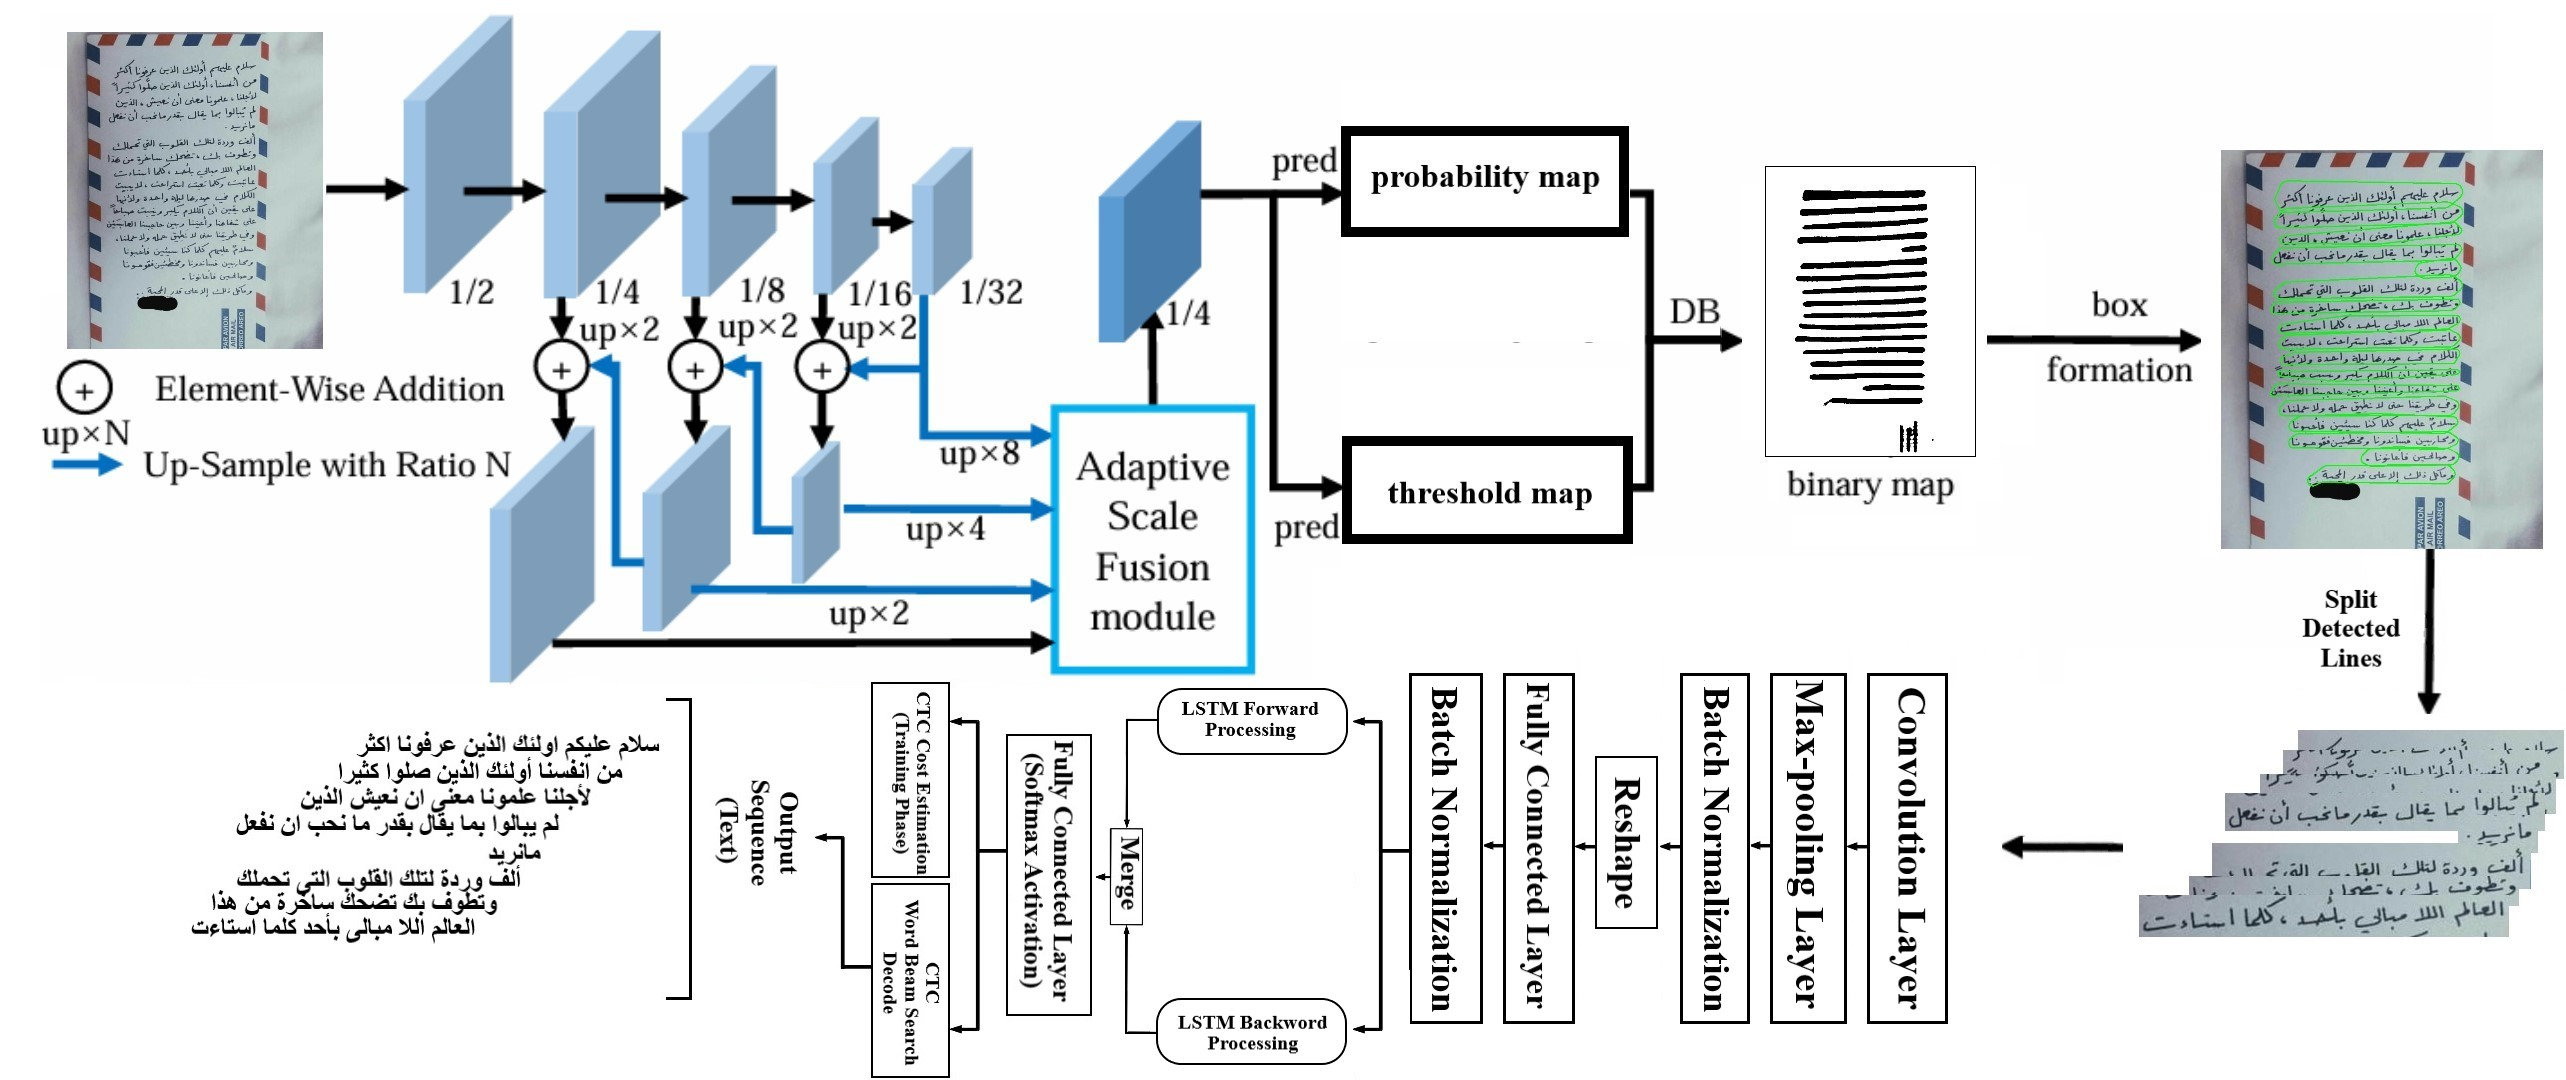
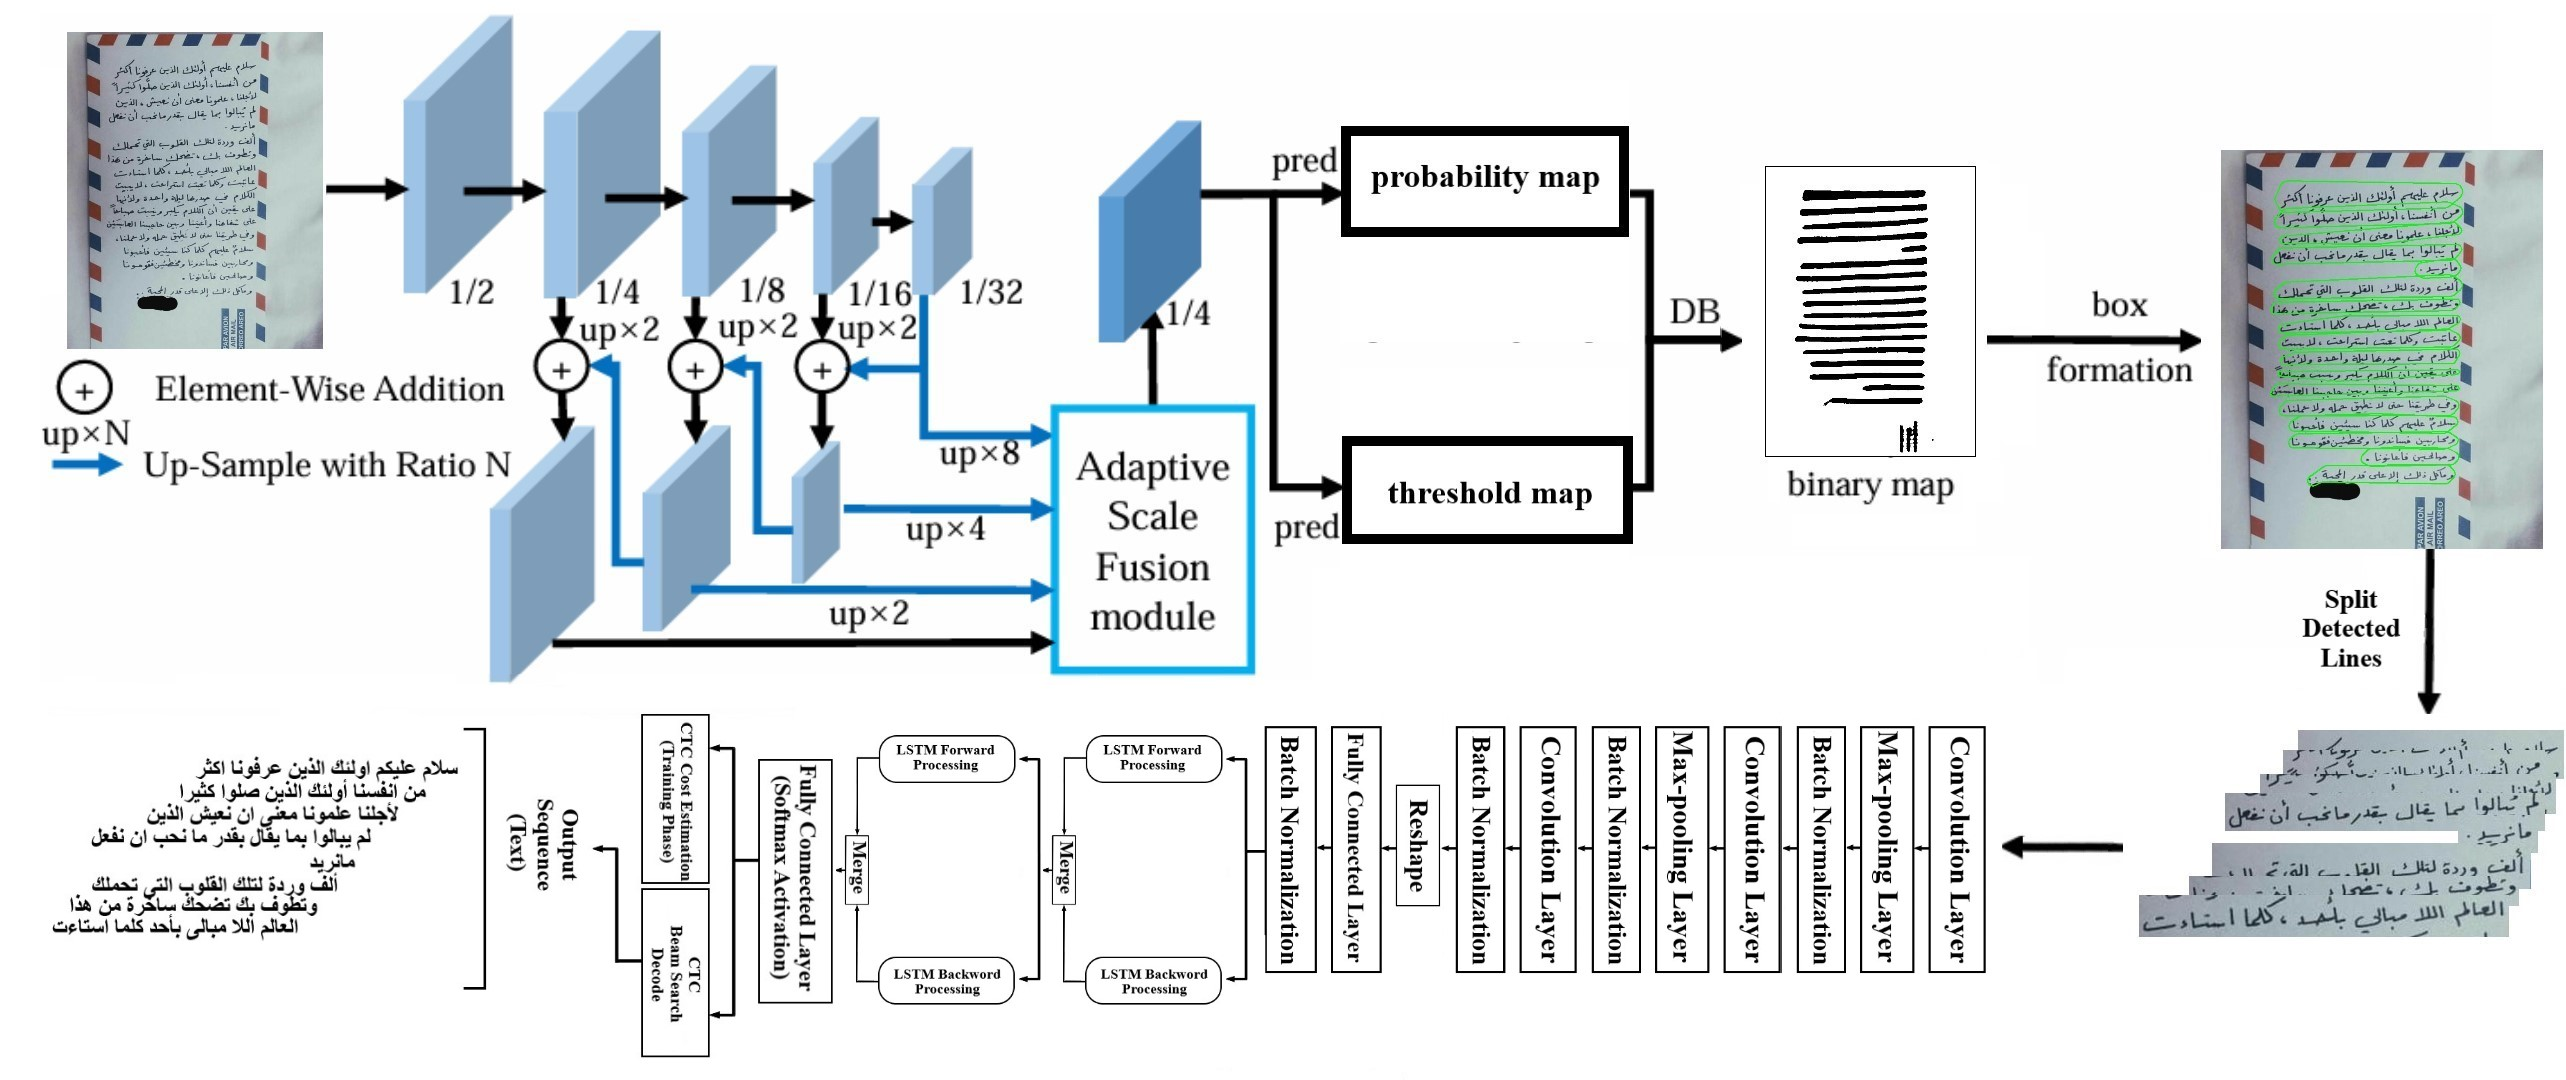
updating model architecture

Changed region(s): [[0.0312, 0.6111, 0.7794, 1.0]]

diff --git a/OCR Engine/model.py b/OCR Engine/model.py
@@ -6,6 +6,8 @@ from config import OCRConfig
 from tensorflow.keras.layers.experimental.preprocessing import StringLookup
 import numpy as np
 
+from keras_resnet.models import ResNet50
+
 cfg = OCRConfig()
 
 # Model definition
@@ -34,59 +36,79 @@ class SequenceAccuracy(Metric):
 
 
 class CTCLayer(KL.Layer):
-    def __init__(self, name=None):
-        super().__init__(name=name)
+    def __init__(self, trainable=True, **kwargs):
+        super(CTCLayer, self).__init__(trainable=trainable, **kwargs)
         self.loss_fn = keras.backend.ctc_batch_cost
 
     def call(self, y_true, y_pred):
+    
         batch_len = tf.cast(tf.shape(y_true)[0], dtype="int64")
         input_length = tf.cast(tf.shape(y_pred)[1], dtype="int64")
         label_length = tf.cast(tf.shape(y_true)[1], dtype="int64")
         input_length = input_length * tf.ones(shape=(batch_len, 1), dtype="int64")
         label_length = label_length * tf.ones(shape=(batch_len, 1), dtype="int64")
-        loss = self.loss_fn(y_true, y_pred, input_length, label_length)
+        loss =  self.loss_fn(y_true, y_pred, input_length, label_length)
+        
+
         self.add_loss(loss)
         return y_pred
 
+    def get_config(self):
+        config = super(CTCLayer, self).get_config()
+        return config
+
+        
 
 def get_prediction_model(model):
     prediction_model = keras.models.Model(
-        model.get_layer(name="image_input").input, model.get_layer(name="dense3").output)
+        model.get_layer(name="image").input, model.get_layer(name="dense3").output)
     return prediction_model
 
 
 
-def OCR_Model(cfg, type='train'):
+def OCR_Model(cfg, type='-'):
     
-    char_to_num = StringLookup(vocabulary=cfg.characters, mask_token=None)
+    input_img = keras.Input(shape=(cfg.IMAGE_HEIGHT, cfg.IMAGE_WIDTH, 3), name="image")
+    labels = KL.Input(name="label", shape=(None,))
+
+    # conv block 1.
+    x = keras.layers.Conv2D(32,(3, 3),activation="relu",kernel_initializer="he_normal",padding="same",name="Conv1",)(input_img)
+    x = keras.layers.MaxPooling2D((2, 2), name="pool1")(x)
+    x = keras.layers.BatchNormalization()(x)
+
+    # conv block 2.
+    x = keras.layers.Conv2D(64,(3, 3),activation="relu",kernel_initializer="he_normal",padding="same",name="Conv2",)(x)
+    x = keras.layers.MaxPooling2D((2, 2), name="pool2")(x)
+    x = keras.layers.BatchNormalization()(x)
+    
+    # conv block 3.
+    x = keras.layers.Conv2D(128,(3, 3),activation="relu",kernel_initializer="he_normal",padding="same",name="Conv3",)(x)
+    # x = keras.layers.MaxPooling2D((2, 2), name="pool3")(x)
+    x = keras.layers.BatchNormalization()(x)
 
     
-    input_img = keras.Input(shape=(cfg.IMAGE_HEIGHT, cfg.IMAGE_WIDTH, 3), name="image_input")
-    labels = KL.Input(name="label", shape=(None,))
+    x = tf.transpose(x, perm=[0, 2, 1, 3]) 
     
-    x = KL.Conv2D(32,(3, 3),activation="relu",kernel_initializer="he_normal",padding="same",name="Conv1",)(input_img)
-    x = KL.MaxPooling2D((2, 2), name="pool1")(x)
-    x = KL.BatchNormalization()(x)
+    #reshape depends on the last layer and max pooling values
+    new_shape = (x.shape[1], x.shape[2]*x.shape[3])
+    x = keras.layers.Reshape(target_shape=new_shape, name="reshape")(x)
     
-    new_shape = ((cfg.IMAGE_WIDTH // 2), (cfg.IMAGE_HEIGHT // 2) * 32)
-    x = KL.Reshape(target_shape=new_shape, name="reshape")(x)
+    #best #.units -> 64,32
+    x = keras.layers.Dense(64, activation="relu", name="dense2")(x)
+    x = keras.layers.BatchNormalization()(x)
     
-    x = KL.Dense(16, activation="relu", name="dense2")(x)
-    x = KL.BatchNormalization()(x)
     
-    x = KL.Bidirectional(keras.layers.LSTM(256, return_sequences=True, dropout=0.35))(x)
-    
-    final_dense = KL.Dense(len(cfg.characters) + 3, activation="softmax", name="dense3")(x)
-    
-    output = CTCLayer(name="ctc_loss")(labels, final_dense)
-    if (type == 'inference'):
-        model = keras.models.Model(
-            inputs=input_img, outputs=final_dense, name="OCR-ENGINE"
-        )
-    else:
-        model = keras.models.Model(
-            inputs=[input_img, labels], outputs=output, name="OCR-ENGINE"
-        )
+    x = keras.layers.Bidirectional(keras.layers.LSTM(128, return_sequences=True, dropout=0.3))(x)
+    x = keras.layers.Bidirectional(keras.layers.LSTM(256, return_sequences=True, dropout=0.3))(x)
+
+    #indicates the number of vocabulary in String_lookup(cfg.charachters) + 1
+    x = keras.layers.Dense(len(cfg.characters) + 3, activation="softmax", name="dense3")(x)
+    output = CTCLayer(name="ctc_loss")(labels, x)
+
+
+    model = keras.models.Model(
+        inputs=[input_img, labels], outputs=output, name="OCR-ENGINE"
+    )
         
     
     return model
